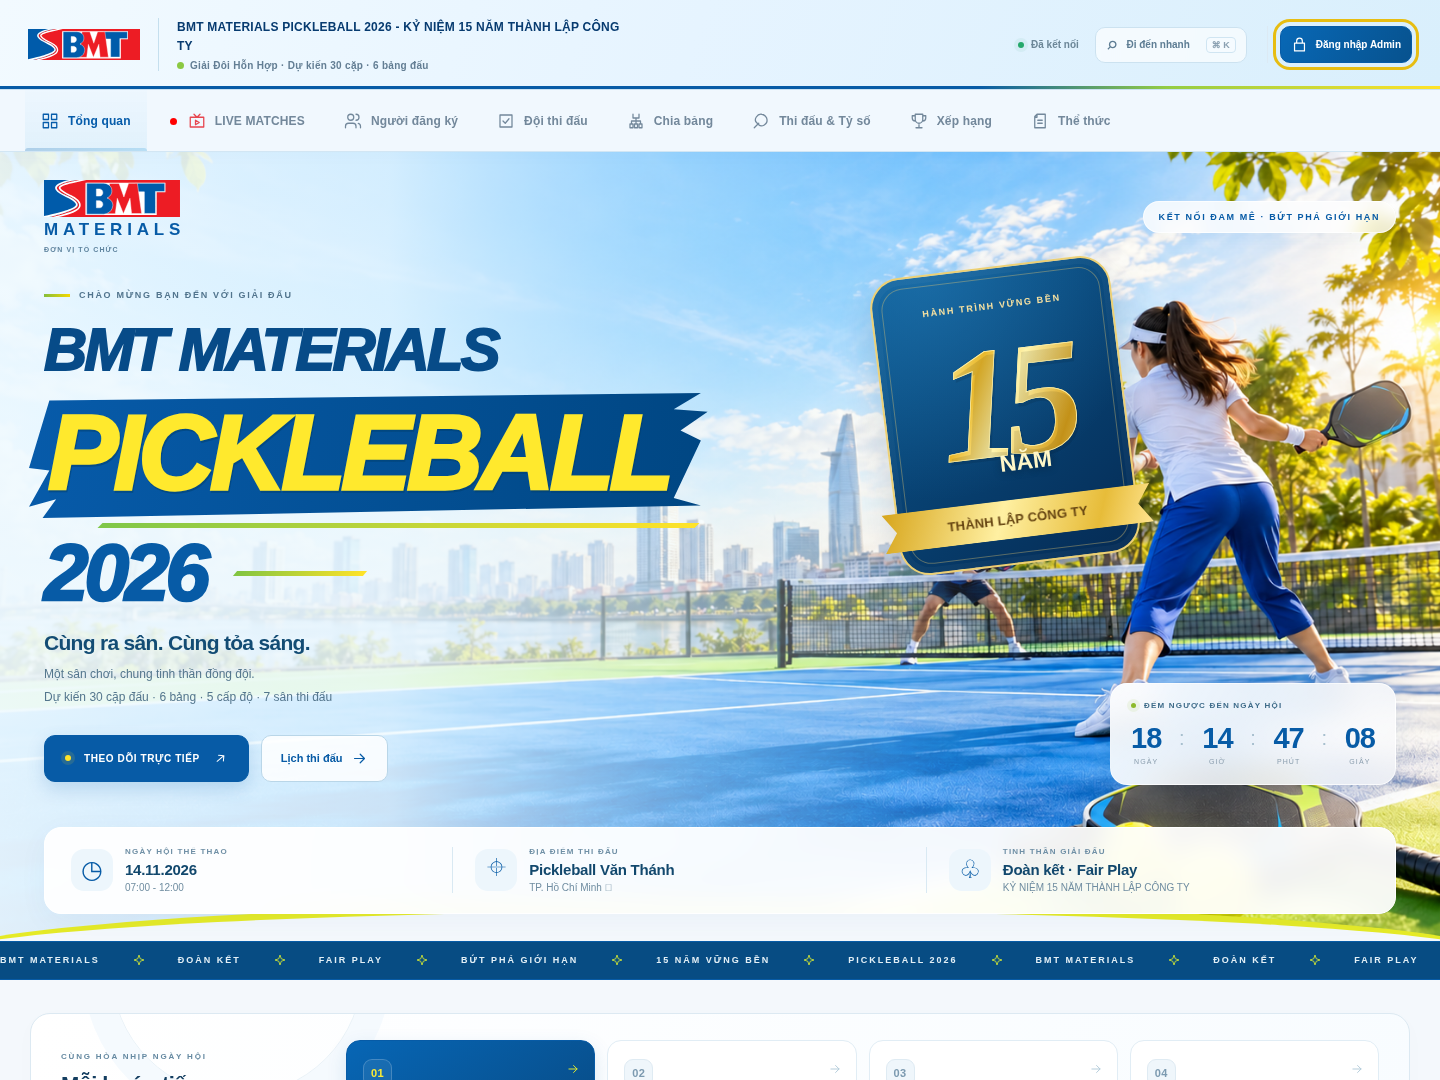
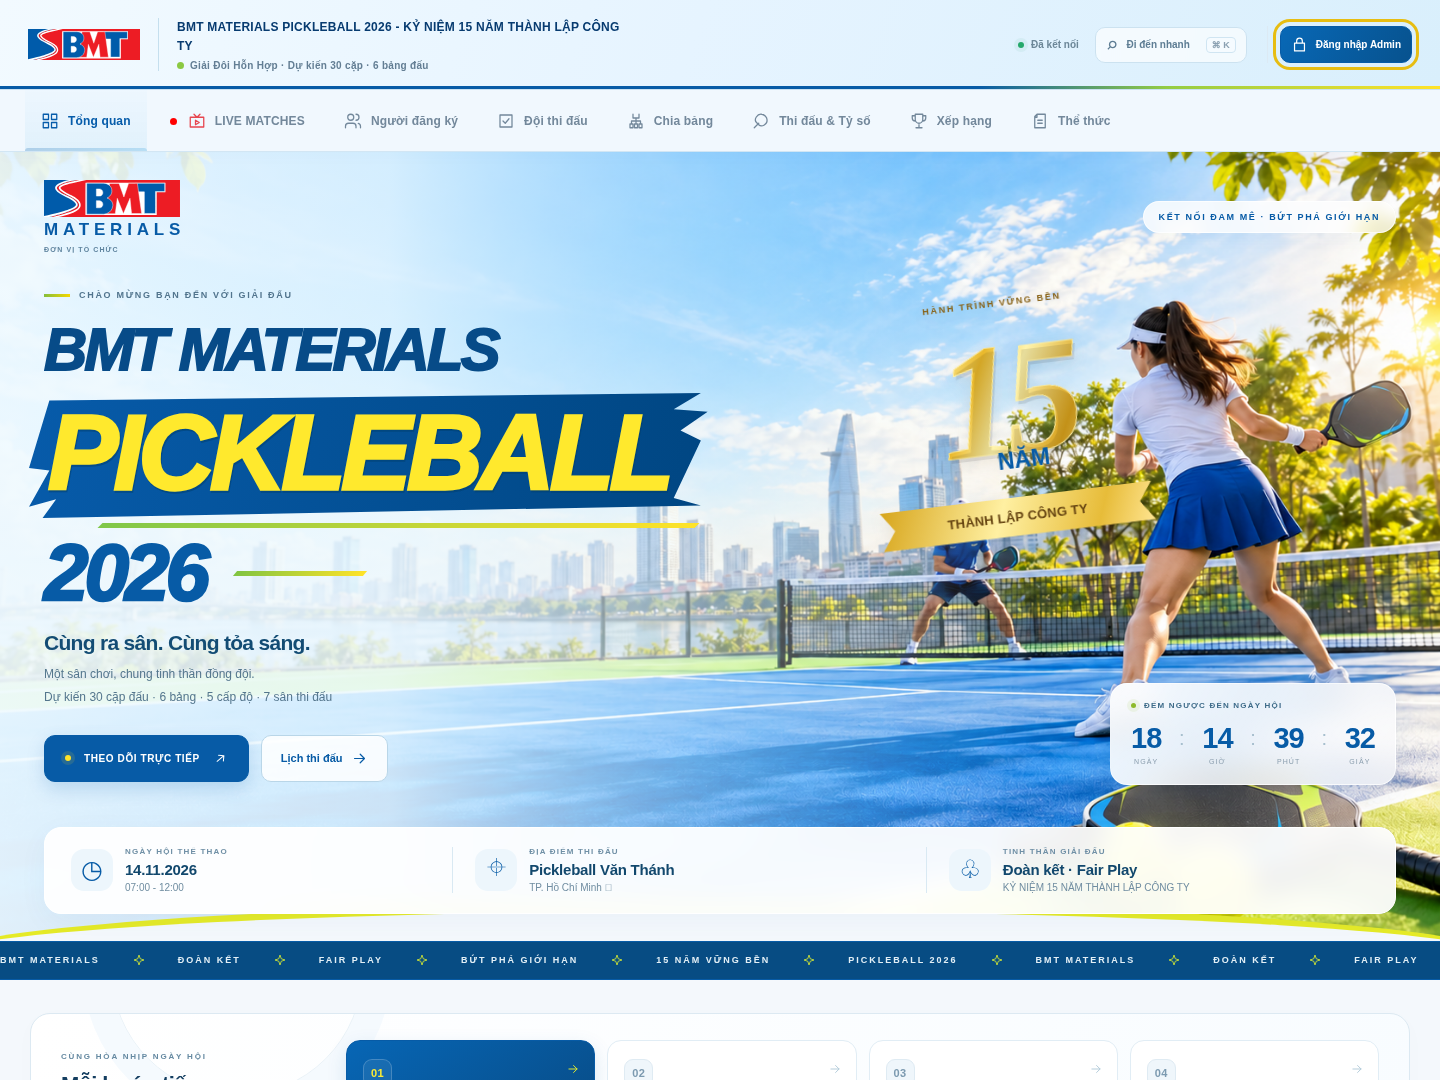
Refine transparent anniversary mark and lengthen athletic skirt

Changed region(s): [[0.5938, 0.2139, 0.9062, 0.6111], [0.9375, 0.6722, 0.9688, 0.7028], [0.875, 0.6722, 0.9062, 0.7028]]

diff --git a/public/experience.css b/public/experience.css
@@ -110,12 +110,12 @@ button{position:relative;overflow:hidden;}
 
 .ux-command-empty{color:#8aa4b6;text-align:center;padding:25px 15px;font-size:11px;}
 .ux-command-empty[hidden]{display:none;}
-/* Softer brand header and an unmistakable 15-year anniversary seal. */
+/* Soft blue header and enlarged gold anniversary lettering on a transparent background. */
 .topbar{background:linear-gradient(110deg,#f2faff 0%,#e6f4ff 48%,#d9effc 100%);border-bottom-color:#cbe2f2;}
 .topbar .brand-text{border-left-color:#c5dfee;}.topbar .chip-btn{background:#ffffffa8;border-color:#cce2f0;}.topbar .ux-quicknav kbd{background:#f5fbff;border-color:#d0e5f2;}
 .topbar #btnLoginOpen{background:linear-gradient(120deg,#0868b6,#07528e);color:#fff;border-color:#075ba6;}.tabbar{background:#f0f8fef2;border-bottom-color:#d2e6f4;}.tab-btn.active{background:linear-gradient(180deg,#e6f4ff55,#dceffbcc);}
-.event-anniversary{width:242px;right:20%;top:2%;padding:26px 18px 24px;border:2px solid #ecd075;border-radius:31px;background:radial-gradient(circle at 24% 0,#3190cf66,transparent 65%),linear-gradient(145deg,#0a578f,#052b54);box-shadow:0 14px 35px #052b542b,inset 0 0 0 6px #ffffff08;filter:none;}
-.event-anniversary::before{content:'';position:absolute;inset:9px;border:1px solid #efce715c;border-radius:22px;pointer-events:none;}.anniversary-top{position:relative;z-index:1;font-size:9px;letter-spacing:1.7px;color:#f5e0a1;}.anniversary-number{font-size:160px;line-height:1.06;margin:5px 0 13px;letter-spacing:-15px;background:linear-gradient(115deg,#bd7a05 3%,#fff2a3 20%,#e9b82b 37%,#fff4ac 52%,#d8a11b 76%,#ffe68a 95%);background-clip:text;-webkit-background-clip:text;-webkit-text-stroke:.7px #fff3ad;text-shadow:2px 4px 0 #00000018;}.anniversary-number>span{font-size:23px;bottom:11px;left:90px;color:#fff7c8;text-shadow:0 2px 8px #00000050;}.anniversary-ribbon{position:relative;z-index:1;left:-34px;width:calc(100% + 68px);font-size:13px;padding:12px 10px;color:#664512;letter-spacing:.2px;background:linear-gradient(110deg,#d7a51b,#fff0a2 44%,#e7bc39 80%,#ffe591);filter:drop-shadow(0 5px 5px #001a3425);}
+.event-anniversary{width:242px;right:20%;top:2%;padding:26px 18px 24px;border:0;border-radius:0;background:transparent;box-shadow:none;filter:drop-shadow(0 5px 8px #65450018);}
+.event-anniversary::before{display:none;}.anniversary-top{position:relative;z-index:1;font-size:9px;letter-spacing:1.7px;color:#876116;}.anniversary-number{font-size:160px;line-height:1.06;margin:5px 0 13px;letter-spacing:-15px;background:linear-gradient(115deg,#bd7a05 3%,#fff2a3 20%,#e9b82b 37%,#fff4ac 52%,#d8a11b 76%,#ffe68a 95%);background-clip:text;-webkit-background-clip:text;-webkit-text-stroke:.7px #fff3ad;text-shadow:2px 4px 0 #00000018;}.anniversary-number>span{font-size:23px;bottom:11px;left:90px;color:#075ba6;text-shadow:0 1px 3px #ffffff80;}.anniversary-ribbon{position:relative;z-index:1;left:-34px;width:calc(100% + 68px);font-size:13px;padding:12px 10px;color:#664512;letter-spacing:.2px;background:linear-gradient(110deg,#d7a51b,#fff0a2 44%,#e7bc39 80%,#ffe591);filter:drop-shadow(0 5px 5px #001a3425);}
 .live-sync-caption{font-size:10px;color:#8eb3cf;line-height:1.8;margin:10px auto 0;max-width:570px;}.live-source-tag{display:flex;align-items:center;gap:7px;color:#a9d1e8;font-size:8px;letter-spacing:.45px;padding:0 17px 10px;}.live-source-tag>.ux-icon{width:12px;height:12px;color:#bee163;}.live-card-foot{display:flex;align-items:center;justify-content:center;gap:8px;}.live-score-btn{display:flex;align-items:center;justify-content:center;gap:7px;border:1px solid #73b4dc55;background:#2d80b92b;color:#c9eaff;border-radius:9px;padding:8px 12px;font-size:10px;font-weight:700;}.live-score-btn>.ux-icon{width:14px;height:14px;}.live-score-btn:hover{background:#2d80b94d;}.match-live-toolbar{display:flex;align-items:center;justify-content:space-between;gap:12px;padding:9px 14px;border-bottom:1px solid #e3edf5;background:#edf7fe66;}.match-live-hint{font-size:9px;color:#5687a4;line-height:1.6;}.match-live-hint.is-error{color:#b34b43;}.match-live-toolbar .btn{font-size:9px;min-height:29px;padding:5px 9px;}.match-live-toolbar .ux-icon{width:12px;height:12px;}
 @media(max-width:1200px){.event-anniversary{right:9%;width:212px;padding:23px 16px 22px;}.anniversary-number{font-size:137px;}.anniversary-number>span{left:77px;font-size:21px;}.anniversary-ribbon{font-size:11px;left:-29px;width:calc(100% + 58px);}}
 @media(max-width:1000px){.event-anniversary{right:0;top:0;width:170px;padding:20px 13px 19px;border-radius:24px;}.event-anniversary::before{inset:7px;border-radius:18px;}.anniversary-top{font-size:6px;letter-spacing:1.1px;}.anniversary-number{font-size:112px;margin-bottom:10px;letter-spacing:-12px;}.anniversary-number>span{font-size:17px;left:57px;bottom:10px;}.anniversary-ribbon{font-size:9px;left:-24px;width:calc(100% + 48px);padding:9px 5px;}}

diff --git a/README.md b/README.md
@@ -31,7 +31,7 @@ Server mặc định cổng 4000. Có thể đặt `PORT` và `TOURNAMENT_DB_PAT
 
 ## UI/UX & tương tác
 
-- Banner tràn viền, VĐV nữ mặc quần thể thao phủ gối; huy hiệu 15 năm vàng nổi bật trên nền xanh đậm. Header trắng–xanh nhạt cùng nhận diện, countdown và dải chuyển động.
+- Banner tràn viền, VĐV nữ mặc váy thể thao xanh dài hơn, che kín khi vận động; chữ 15 năm màu vàng được phóng lớn trên nền trong suốt. Header trắng–xanh nhạt cùng nhận diện, countdown và dải chuyển động.
 - Lộ trình 4 bước từ đăng ký đến ra sân; thống kê thật, không nạp dữ liệu giả.
 - Menu icon với thanh chọn chuyển động; dùng phím mũi tên để chuyển tab, hoặc **Ctrl/Cmd + K** để tìm trang nhanh không dấu.
 - Card xuất hiện khi cuộn, phản hồi nút/ripple, chuyển tab, modal/toast và nhấn mạnh tỷ số mới lưu. Tôn trọng **Reduce Motion** của thiết bị.

diff --git a/DESIGN-UPDATE.md b/DESIGN-UPDATE.md
@@ -31,4 +31,4 @@ Banner tràn viền hai bên, thêm countdown và dải nhận diện; nội dun
 
 ## Tinh chỉnh theo phản hồi
 
-Ảnh VĐV nữ đổi thành quần thể thao xanh phủ gối; huy hiệu 15 năm dùng nền xanh đậm và số vàng lớn để tăng tương phản. Header dùng gradient trắng–xanh nhạt; giữ logo BMT nguyên bản và banner tràn viền. LIVE nhận tự động trận/số điểm đang nhập qua SSE, đồng thời giữ chế độ nhập tay.
+Ảnh VĐV nữ giữ váy thể thao xanh, kéo dài hơn để che kín khi vận động; chữ 15 năm màu vàng được phóng lớn trên nền trong suốt, không dùng bảng nền xanh. Header dùng gradient trắng–xanh nhạt; giữ logo BMT nguyên bản và banner tràn viền. LIVE nhận tự động trận/số điểm đang nhập qua SSE, đồng thời giữ chế độ nhập tay.
